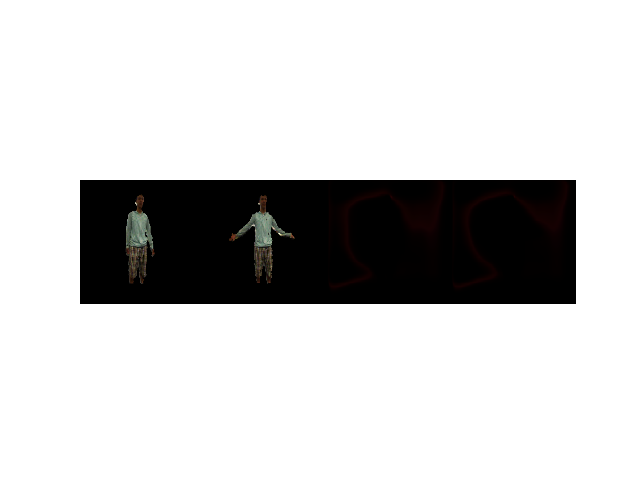
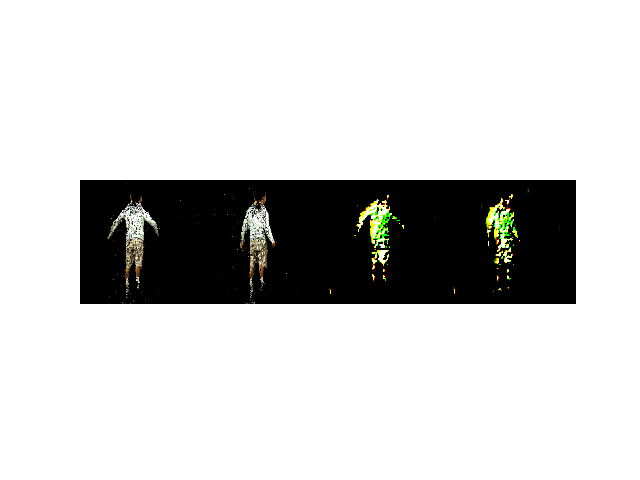
xiaoxinxin

diff --git a/model/gan.py b/model/gan.py
@@ -4,7 +4,7 @@ import sys
 sys.path.insert(0,"..")
 
 from utils import *
-from model import Model
+from model import data_model
 import tensorflow as tf 
 
 
@@ -33,22 +33,21 @@ def discriminator(x,reuse=False):
         x = tf.nn.softmax(x)
         return x
 
-class GAN(Model):
+class GAN(data_model):
     def __init__(self,name="generator adverstial net",save_name="GAN",input_shape=(320,320,3),z_dim = 200): 
-        Model.__init__(self,name,save_name)
-        self.total_samples = len(self.data['train'])
+        data_model.__init__(self,name,save_name)
+        self.total_samples = len(self.data['X'])
         self.z_dim = z_dim # norise value 
         self.img_dim = input_shape
-        self.model = self.build(input_shape)
+        self.build(input_shape)
     
 
     def build(self, input_shape ):
         height , width , channel = self.img_dim
-        height , width , channel = ( 28 , 28 , 3)
         
         with tf.name_scope("Inputs"):
-            gen_input = tflearn.input_data(shape = [ None, self.z_dim, channel],name="Input_gen_noise")
-            input_disc_noise = tflearn.input_data(shape=[None ,self.z_dim, channel ], name="Input_disc_noise")
+            gen_input = tflearn.input_data(shape = [ None, self.z_dim, channel],name="input_gen_noise")
+            input_disc_noise = tflearn.input_data(shape=[None ,self.z_dim, channel ], name="input_disc_noise")
             input_disc_real = tflearn.input_data(shape=[None,  height , width , channel ], name='input_disc_real')            
 
         with tf.name_scope("GAN"):
@@ -72,16 +71,16 @@ class GAN(Model):
         
         disc_model = tflearn.regression(disc_net, optimizer='adam',
                                         placeholder=disc_target,
-                                        loss='categorical_crossentropy',
+                                        loss='binary_crossentropy',
                                         trainable_vars=disc_vars,
-                                        batch_size=64, name='target_disc',
+                                        batch_size=32, name='target_disc',
                                         op_name='DISC')
 
         gen_vars = tflearn.get_layer_variables_by_scope('Generator')
         gan_model = tflearn.regression(stacked_gan_net, optimizer='adam',
                                     loss='categorical_crossentropy',
                                     trainable_vars=gen_vars,
-                                    batch_size=64, name='target_gen',
+                                    batch_size=32, name='target_gen',
                                     op_name='GEN')
 
         # Define GAN model, that output the generated images.
@@ -89,32 +88,34 @@ class GAN(Model):
             
     
     def train(self):
-        disc_noise = np.random.uniform(-1., 1., size=[total_samples, self.z_dim])
+        disc_noise = np.random.uniform(-1., 1., size=[self.total_samples, self.z_dim])
         # Prepare target data to feed to the discriminator (0: fake image, 1: real image)
-        y_disc_fake = np.zeros(shape=[total_samples])
-        y_disc_real = np.ones(shape=[total_samples])
+        y_disc_fake = np.zeros(shape=[self.total_samples])
+        y_disc_real = np.ones(shape=[self.total_samples])
         
         y_disc_fake = tflearn.data_utils.to_categorical(y_disc_fake, 2)
         y_disc_real = tflearn.data_utils.to_categorical(y_disc_real, 2)
 
         # Prepare input data to feed to the stacked generator/discriminator
-        gen_noise = np.random.uniform(-1., 1., size=[total_samples, self.z_dim])
+        gen_noise = np.random.uniform(-1., 1., size=[self.total_samples, self.z_dim])
         # Prepare target data to feed to the discriminator
         # Generator tries to fool the discriminator, thus target is 1 (e.g. real images)
-        y_gen = np.ones(shape=[total_samples])
+        y_gen = np.ones(shape=[self.total_samples])
         y_gen = tflearn.data_utils.to_categorical(y_gen, 2)
 
         # Start training, feed both noise and real images.
-        self.model.fit(X_inputs={'input_gen_noise': gen_noise,
-                        'input_disc_noise': disc_noise,
-                        'input_disc_real': self.data['train']},
-                Y_targets={'target_gen': y_gen,
-                        'target_disc_fake': y_disc_fake,
-                        'target_disc_real': y_disc_real},
-                n_epoch=300)
-
+        try:
+            self.model.fit(X_inputs={'input_gen_noise': gen_noise,
+                            'input_disc_noise': disc_noise,
+                            'input_disc_real': self.data['X']},
+                    Y_targets={'target_gen': y_gen,
+                            'target_disc_fake': y_disc_fake,
+                            'target_disc_real': y_disc_real},
+                    n_epoch=300)
+        except KeyboardInterrupt:
+            self.model.save(self.save_name+".ckpt")
 if __name__ == "__main__":
     model = GAN()
-
+    model.train()
     
     

diff --git a/model/model.py b/model/model.py
@@ -8,7 +8,7 @@ sys.path.insert(0,"..")
 
 from utils import *
 from config import strFolderName
-import keras_utils_layers
+from keras_utils_layers import extract_patches ,normalization
 from tflearn.data_utils import image_preloader
 from tflearn.data_preprocessing import ImagePreprocessing 
 from tflearn.data_augmentation import ImageAugmentation
@@ -28,18 +28,8 @@ def read_img(filedir,name):
     img = cv2.imread(os.path.join(filedir,name),-1).astype(np.float64)
     resize_img = cv2.resize(img,(256,256) )
     resize_img = bgr_to_rgb(resize_img)
-    return keras_utils_layers.normalization(resize_img)
+    return normalization(resize_img)
 
-def extract_patches(X , patch_size):
-    list_X = []
-    list_row_idx = [(i * patch_size[0], (i + 1) * patch_size[0]) for i in range(X.shape[1] // patch_size[0])]
-    list_col_idx = [(i * patch_size[1], (i + 1) * patch_size[1]) for i in range(X.shape[2] // patch_size[1])]
-
-    for row_idx in list_row_idx:
-        for col_idx in list_col_idx:
-            list_X.append(X[:, row_idx[0]:row_idx[1], col_idx[0]:col_idx[1], :])
-    
-    return list_X
 
 
 class data_model(object):
@@ -55,8 +45,8 @@ class data_model(object):
     def load_data(self):
         train, target= os.listdir(self.train_dir), os.listdir(self.target_dir)
         # load all of the images
-        self.data['y'] = [ read_img(self.train_dir,img ) for img in train ]
-        self.data['X'] = [ read_img(self.target_dir,img ) for img in target ]
+        self.data['X'] = [ read_img(self.train_dir,img ) for img in train ]
+        self.data['y'] = [ read_img(self.target_dir,img ) for img in target ]
         num_of_sample = math.floor(.2 * len(self.data['X'])) # 20 % of validation sample 
         self.validation= { 'X': np.array(self.data['X'][:num_of_sample]) , 'y':np.array(self.data['y'][:num_of_sample])}
         self.data['X'] = np.array(self.data['X'][num_of_sample:])
@@ -77,11 +67,12 @@ class data_model(object):
         
         y_disc = np.zeros((X.shape[0],2), dtype=np.uint8)
         if batch_counter % 2 == 0:
+            # X_disc = generator.predict(X)
             X_disc = generator.predict(X)
             y_disc[:,0 ]=1
         
         else:
-            X_disc = X
+            X_disc = y
             if label_smoothing: y_disc[:, 1] = np.random.uniform(low=0.9, high=1, size=y_disc.shape[0])
             else: y_disc[:, 1] = 1
 

diff --git a/model/pix2pix_keras.py b/model/pix2pix_keras.py
@@ -21,11 +21,12 @@ def l1_loss(y_true , y_pred):
 
 class  K_DCGAN(data_model):
     def __init__( self  ,flag = "upsample" , epoch=100000):
-        data_model.__init__(self,"K_DCGAN","DCGAN")
+        data_model.__init__(self,"K_DCGAN_reverse","DCGAN")
         self.image_dim = [256,256,3]
         self.patch_size = [64,64]
         self.batch_size = 2
         self.nb_epoch = epoch
+        self.n_batch_per_epoch = 500
         self.build(self.image_dim)
         self.disc_weights_path = os.path.join(self.model_path , "disc_weight_epoch.h5") 
         self.gen_weights_path = os.path.join(self.model_path , "gen_weight_epoch.h5")
@@ -78,10 +79,8 @@ class  K_DCGAN(data_model):
     @timeit(log_info="Training pix2pix")
     def train(self , label_smoothing=False,retrain=False):
         gen_loss, disc_loss  = 100 , 100
-        e_ptr = 0
-        n_batch_per_epoch = 100
+        n_batch_per_epoch = self.n_batch_per_epoch
         total_epoch = n_batch_per_epoch * self.batch_size
-        
 
         if retrain:
             print("Found prev_trained models ...")
@@ -107,7 +106,7 @@ class  K_DCGAN(data_model):
                     y_gen[:,1] =1
                     
                     self.discriminator.trainable = False
-                    gen_loss = self.DCGAN_model.train_on_batch(X_gen , [X_gen_target, y_gen ])
+                    gen_loss = self.DCGAN_model.train_on_batch(X_gen_target , [X_gen, y_gen ])
 
                     self.DCGAN_model.trainable = True
                     
@@ -139,6 +138,6 @@ class  K_DCGAN(data_model):
 
 if __name__ == "__main__":
     model = K_DCGAN()
-    model.train(retrain=True)
+    model.train(retrain=False)
 
         

diff --git a/model/keras_utils_layers.py b/model/keras_utils_layers.py
@@ -8,7 +8,6 @@ from keras.layers.pooling import MaxPooling2D
 import keras.backend as K
 import numpy as np
 import sys , os 
-from model import extract_patches
 import matplotlib.pyplot as plt
 sys.path.insert(0,"..")
 def normalization(X):
@@ -326,6 +325,17 @@ def gen_batch(X1, X2, batch_size):
         idx = np.random.choice(X1.shape[0], batch_size, replace=False)
         yield X1[idx], X2[idx]
 
+
+def extract_patches(X , patch_size):
+    list_X = []
+    list_row_idx = [(i * patch_size[0], (i + 1) * patch_size[0]) for i in range(X.shape[1] // patch_size[0])]
+    list_col_idx = [(i * patch_size[1], (i + 1) * patch_size[1]) for i in range(X.shape[2] // patch_size[1])]
+
+    for row_idx in list_row_idx:
+        for col_idx in list_col_idx:
+            list_X.append(X[:, row_idx[0]:row_idx[1], col_idx[0]:col_idx[1], :])
+    
+    return list_X
 
 def plot_generated_batch(X_full, X_sketch, generator_model, batch_size, image_data_format, suffix):
 
